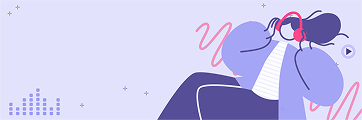
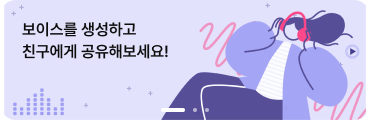
Update: 배너 추가

diff --git a/lib/features/main/home_screen.dart b/lib/features/main/home_screen.dart
@@ -1,5 +1,7 @@
 // lib/features/main/home_screen.dart
 
+import 'dart:async';
+
 import 'package:audioplayers/audioplayers.dart';
 import 'package:celeb_voice/constants/gaps.dart';
 import 'package:celeb_voice/constants/sizes.dart';
@@ -41,6 +43,15 @@ class _HomeScreenState extends State<HomeScreen> {
   AudioPlayer? _audioPlayer; // 오디오 플레이어
   String? _currentPlayingSampleId; // 현재 재생 중인 샘플 ID
 
+  // 배너 캐러셀 상태 관리
+  late PageController _bannerPageController;
+  int _currentBannerIndex = 0;
+  final List<String> _bannerImages = [
+    'assets/images/banner.png',
+    'assets/images/banner2.png',
+    'assets/images/banner3.jpg',
+  ];
+
   @override
   void initState() {
     super.initState();
@@ -69,6 +80,7 @@ class _HomeScreenState extends State<HomeScreen> {
 
     _loadUserNickname(); // 사용자 nickname 로드 추가
     _initializeAudioPlayer(); // 오디오 플레이어 초기화
+    _initializeBannerCarousel(); // 배너 캐러셀 초기화
   }
 
   // 사용자 nickname 로드 메서드 (localStorage 우선, 없으면 API 호출)
@@ -116,6 +128,7 @@ class _HomeScreenState extends State<HomeScreen> {
     _currentCelebIndex.dispose();
     _celebData.dispose();
     _audioPlayer?.dispose(); // 오디오 플레이어 정리
+    _bannerPageController.dispose(); // 배너 페이지 컨트롤러 정리
     super.dispose();
   }
 
@@ -658,38 +671,116 @@ class _HomeScreenState extends State<HomeScreen> {
     );
   }
 
+  // 배너 캐러셀 초기화
+  void _initializeBannerCarousel() {
+    _bannerPageController = PageController(initialPage: 0);
+
+    // 자동 슬라이드 설정 (5초마다)
+    Future.delayed(Duration(seconds: 3), () {
+      _startBannerAutoSlide();
+    });
+  }
+
+  // 배너 자동 슬라이드 시작
+  void _startBannerAutoSlide() {
+    if (!mounted) return;
+
+    Timer.periodic(Duration(seconds: 5), (timer) {
+      if (!mounted) {
+        timer.cancel();
+        return;
+      }
+
+      setState(() {
+        _currentBannerIndex = (_currentBannerIndex + 1) % _bannerImages.length;
+      });
+
+      _bannerPageController.animateToPage(
+        _currentBannerIndex,
+        duration: Duration(milliseconds: 300),
+        curve: Curves.easeInOut,
+      );
+    });
+  }
+
+  // 배너 캐러셀 위젯
+  Widget _buildBannerCarousel(double screenWidth) {
+    return Container(
+      width: screenWidth,
+      height: 120,
+      margin: EdgeInsets.symmetric(horizontal: 16, vertical: 10),
+      child: Stack(
+        children: [
+          // 페이지뷰
+          PageView.builder(
+            controller: _bannerPageController,
+            onPageChanged: (index) {
+              setState(() {
+                _currentBannerIndex = index;
+              });
+            },
+            itemCount: _bannerImages.length,
+            itemBuilder: (context, index) {
+              return ClipRRect(
+                borderRadius: BorderRadius.circular(12),
+                child: Image.asset(
+                  _bannerImages[index],
+                  width: double.infinity,
+                  height: 120,
+                  fit: BoxFit.cover,
+                  errorBuilder: (context, error, stackTrace) {
+                    return Container(
+                      decoration: BoxDecoration(
+                        color: Colors.grey.shade200,
+                        borderRadius: BorderRadius.circular(12),
+                      ),
+                      child: Center(
+                        child: Text(
+                          '배너 ${index + 1}',
+                          style: TextStyle(color: Colors.grey.shade600),
+                        ),
+                      ),
+                    );
+                  },
+                ),
+              );
+            },
+          ),
+
+          // 인디케이터
+          Positioned(
+            bottom: 12,
+            left: 0,
+            right: 0,
+            child: Row(
+              mainAxisAlignment: MainAxisAlignment.center,
+              children: List.generate(
+                _bannerImages.length,
+                (index) => Container(
+                  width: 8,
+                  height: 8,
+                  margin: EdgeInsets.symmetric(horizontal: 4),
+                  decoration: BoxDecoration(
+                    shape: BoxShape.circle,
+                    color: _currentBannerIndex == index
+                        ? Colors.white
+                        : Colors.white.withOpacity(0.5),
+                  ),
+                ),
+              ),
+            ),
+          ),
+        ],
+      ),
+    );
+  }
+
   Widget _buildNonSubscriberMenu(double screenHeight, double screenWidth) {
     // 데일리 메세지 - 비구독자만 보이게
     return Column(
       children: [
-        // 배너 이미지
-        Container(
-          width: screenWidth,
-          padding: EdgeInsets.symmetric(horizontal: 16, vertical: 10),
-          child: ClipRRect(
-            borderRadius: BorderRadius.circular(12),
-            child: Image.asset(
-              'assets/images/banner.png',
-              width: double.infinity,
-              fit: BoxFit.cover,
-              errorBuilder: (context, error, stackTrace) {
-                return Container(
-                  height: 120,
-                  decoration: BoxDecoration(
-                    color: Colors.grey.shade200,
-                    borderRadius: BorderRadius.circular(12),
-                  ),
-                  child: Center(
-                    child: Text(
-                      '배너 이미지',
-                      style: TextStyle(color: Colors.grey.shade600),
-                    ),
-                  ),
-                );
-              },
-            ),
-          ),
-        ),
+        // 배너 캐러셀
+        _buildBannerCarousel(screenWidth),
         Gaps.v20,
         Container(
           alignment: Alignment.topLeft,
